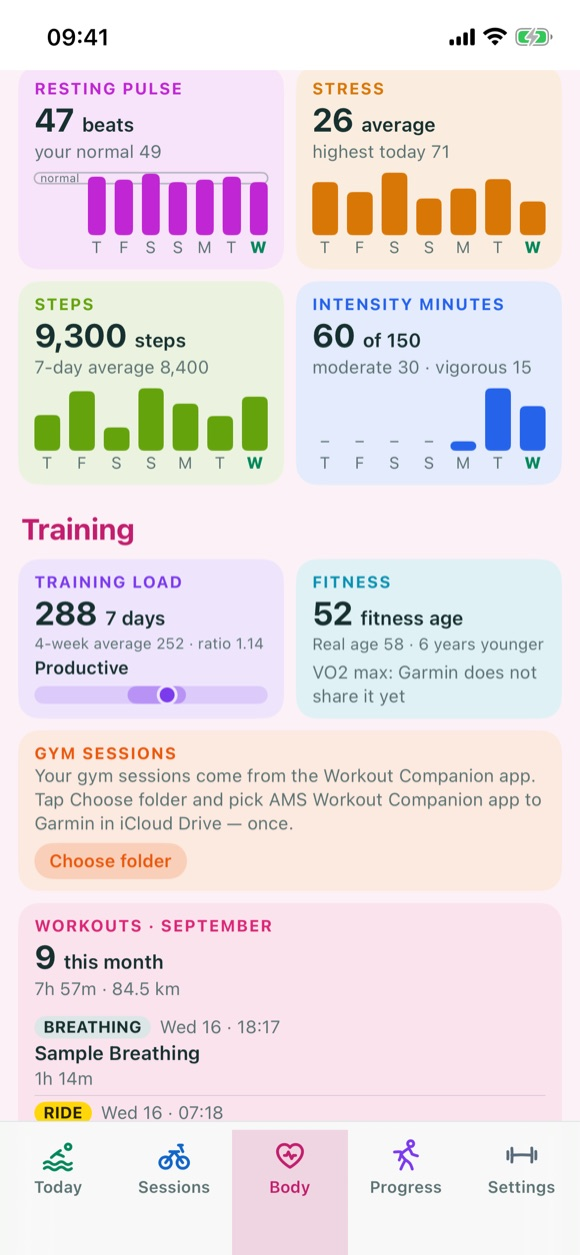
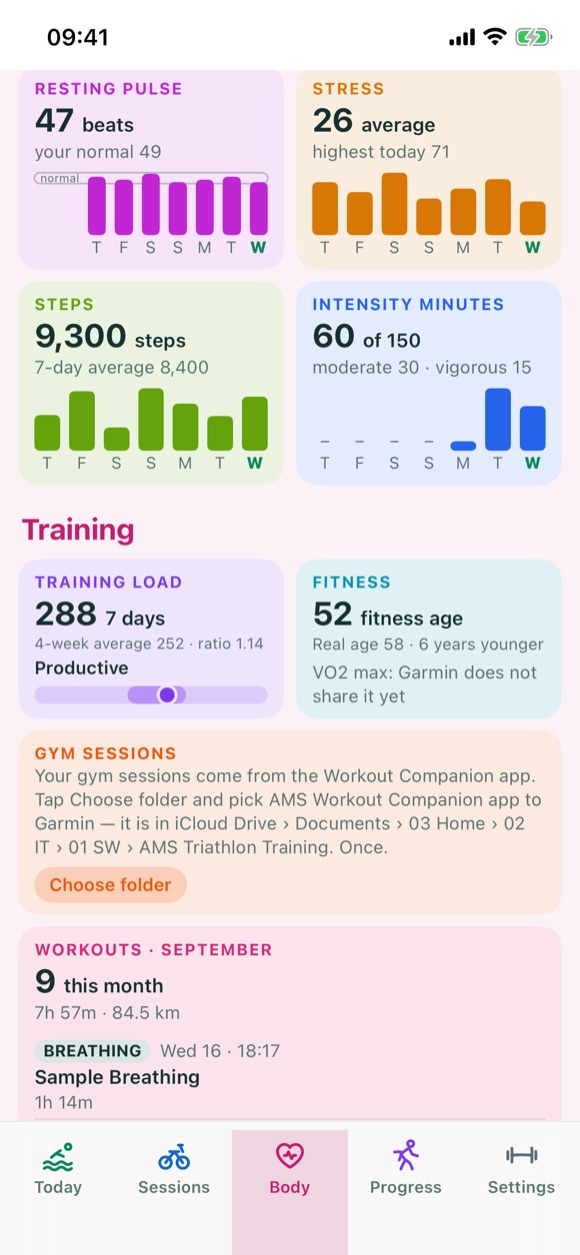
Course: gym folder now in iCloud Drive › Documents › 03 Home › 02 IT › 01 SW › AMS Triathlon Training; 2.13 (89); 3 pictures retaken

Changed region(s): [[0.0621, 0.6526, 0.6828, 0.9012], [0.7138, 0.6526, 0.8379, 0.6837], [0.869, 0.6526, 0.9, 0.6837]]

diff --git a/docs/intro/index.html b/docs/intro/index.html
@@ -2915,7 +2915,7 @@ CHAPTER({
       hint: 'The card shows the gym sessions you log in the Workout Companion app. It has no page of its own; the six latest sit under it as rows, each with a slim bar for its kilograms.',
       robot: [['act', 'bod.gym', '1']], real: 'Body › Gym sessions' },
     { kind: 'look', head: 'Before the gym folder is chosen', shot: 'bod-19-gym-nofolder',
-      text: 'Until you choose the folder, the Gym sessions card is small: a grey line says: “Your gym sessions come from the Workout Companion app. Tap Choose folder and pick AMS Workout Companion app to Garmin in iCloud Drive — once.” Under it a button, <b>Choose folder</b>. Workouts · September stands right under the card.',
+      text: 'Until you choose the folder, the Gym sessions card is small: a grey line says: “Your gym sessions come from the Workout Companion app. Tap Choose folder and pick AMS Workout Companion app to Garmin — it is in iCloud Drive › Documents › 03 Home › 02 IT › 01 SW › AMS Triathlon Training. Once.” Under it a button, <b>Choose folder</b>. Workouts · September stands right under the card.',
       hint: 'The app only reads that folder and writes nothing in it. The choice stays on this device: the iPad and the Mac each need their own.', real: 'Body › Gym sessions' },
     { kind: 'look', head: 'The gym block on a strength session', set: { screen: 'bod.gymblock' }, target: 'bod.gymblk',
       text: 'Open a strength session on a day you trained in the gym and a small <b>GYM</b> block shows that day’s place, length, machines, sets, kilograms and each machine’s best set. Other kinds of session show nothing, and so does a strength day with no gym session.' },
@@ -4191,7 +4191,7 @@ CHAPTER({
       text: 'Today’s Garmin line and the Body page get their numbers from your Garmin watch, through one personal key. Once the key is saved, Settings › Garmin says Connected, shows the key only as dots, and says when it was last read. Read again now asks Garmin at once. The numbers are only shown: they never change your plan.',
       hint: 'The key stays on the device where you pasted it. An iPad or a Mac that should show the numbers needs its own key. The app only asks Garmin for numbers; nothing of your plan, notes or answers is sent to it.', real: 'Settings › Garmin' },
     { kind: 'look', head: 'Gym sessions: choose a folder once', shot: 'gar-07-gym-choose',
-      text: 'With a key saved, the Garmin page has a second part, <b>Gym sessions</b>: “From the Workout Companion app, as on your Garmin Board.” and “In iCloud Drive: AMS Workout Companion app to Garmin”. Press <b>Choose the folder</b> once and pick that folder in your iCloud Drive. Body’s Gym sessions card then fills.',
+      text: 'With a key saved, the Garmin page has a second part, <b>Gym sessions</b>: “From the Workout Companion app, as on your Garmin Board.” and “Where: iCloud Drive › Documents › 03 Home › 02 IT › 01 SW › AMS Triathlon Training › AMS Workout Companion app to Garmin”. Press <b>Choose the folder</b> once and pick that folder; it sits in iCloud Drive › Documents › 03 Home › 02 IT › 01 SW › AMS Triathlon Training. Body’s Gym sessions card then fills.',
       hint: 'The app only reads the folder and writes nothing in it. The choice stays on this device: the iPad and the Mac each choose their own. The Gym sessions card on Body offers the same choice.', real: 'Settings › Garmin › Gym sessions' },
     { kind: 'look', head: 'Once the folder is chosen', shot: 'gar-08-gym-chosen',
       text: 'After the choice the part shows the folder’s name, <b>AMS Workout Companion app to Garmin</b>, and the day of the newest session: Newest session: Mon 14 Sep. A small <b>Change</b> button picks another folder.' },
@@ -4307,7 +4307,7 @@ CHAPTER({
       <span class="k-muted k-small">${S.hom_cloud === 'same' ? 'Last met iCloud 07:12.' : 'Your plan is on its way between your devices.'}</span>
       <button class="k-btn k-main k-full" data-act="hom.sync" data-t="hom.sync"><span>Sync now</span></button>
       <span class="k-cap">Your devices</span>
-      <div class="k-card"><span class="k-small"><b>iPhone · this one</b> · last seen 07:12 · 2.12 (88)</span><span class="k-small"><b>iPad</b> · last seen 07:10 · 2.12 (88)</span></div>
+      <div class="k-card"><span class="k-small"><b>iPhone · this one</b> · last seen 07:12 · 2.13 (89)</span><span class="k-small"><b>iPad</b> · last seen 07:10 · 2.12 (88)</span></div>
       <span class="k-cap">What is shared</span>
       <span class="k-muted k-small">The plan, everything you log and change, and your morning and how-hard answers are the same on your iPhone, iPad and Mac. Apple Health numbers come from your iPhone. The Training calendar and Dropbox stay on your iPhone.</span>`,
     /* The page an iPad or a Mac shows before the plan has arrived (it stands in for Today). */
@@ -4499,6 +4499,9 @@ CHAPTER({
     'set.new': S => `
       ${K.back('Settings', 'set.back')}
       <b class="set-title">What’s new</b>
+      <div class="k-card"><b>2.13 (89)</b><span class="k-muted k-small">26 November 2026</span>
+        <b class="k-small">The gym folder now lives in your AMS Triathlon Training folder</b>
+        <span class="k-small">Body and Settings › Garmin · Changed: the folder AMS Workout Companion app to Garmin no longer sits at the top of iCloud Drive. The card before the choice and Settings › Garmin › Gym sessions now say where it is: iCloud Drive › Documents › 03 Home › 02 IT › 01 SW › AMS Triathlon Training. The button is still Choose the folder.</span></div>
       <div class="k-card"><b>2.12 (88)</b><span class="k-muted k-small">26 November 2026</span>
         <b class="k-small">The gym folder has a new name, and the words around it say the Workout Companion app</b>
         <span class="k-small">Body and Settings › Garmin · Changed: the card before the choice says: Your gym sessions come from the Workout Companion app. Tap Choose folder and pick AMS Workout Companion app to Garmin in iCloud Drive — once. Settings › Garmin › Gym sessions says: From the Workout Companion app, as on your Garmin Board; In iCloud Drive: AMS Workout Companion app to Garmin; and the button Choose the folder. Once chosen, it shows that folder’s name.</span></div>
@@ -4570,7 +4573,7 @@ CHAPTER({
     { kind: 'try', head: 'Garmin, Claude and the rest', text: 'Press the row <b>Claude</b>.', set: { screen: 'set.l2' }, target: 'set.row:claude', until: S => S.set_pick === 'claude',
       ok: 'Optional, and it needs your own key. Its own chapter teaches it. Garmin has one too, and Apple Health follows it.', robot: [['act', 'set.pick', 'claude']] },
     { kind: 'look', head: 'The foot of Settings', shot: 'set-06-foot',
-      text: 'Below Claude: <b>Your two neighbour apps</b>, <b>Reminders</b>, <b>Weather</b>, <b>Calendar</b> and <b>Dropbox</b> (the last two are on the iPhone only). Then <b>This app</b>, with <b>How this works</b> and <b>What’s new</b>; What’s new reads the version under its name, here AMS Triathlon Training 2.12 (88).',
+      text: 'Below Claude: <b>Your two neighbour apps</b>, <b>Reminders</b>, <b>Weather</b>, <b>Calendar</b> and <b>Dropbox</b> (the last two are on the iPhone only). Then <b>This app</b>, with <b>How this works</b> and <b>What’s new</b>; What’s new reads the version under its name, here AMS Triathlon Training 2.13 (89).',
       hint: 'On an iPad and a Mac the word Keys at the foot of the side list shows every key.', real: 'Settings, at the foot' },
     { kind: 'try', head: 'Open How this works', text: 'Press <b>How this works</b>.', set: { screen: 'set.l3' }, target: 'set.row:guide', until: S => S.screen === 'set.guide',
       ok: 'One long page. Each part has a green heading; the last part is Signs in this app.', robot: [['act', 'set.guide']] },
@@ -4580,7 +4583,7 @@ CHAPTER({
       robot: [['act', 'set.sign', 'tick'], ['act', 'set.sign', 'red'], ['act', 'set.sign', 'moon'], ['act', 'set.sign', 'dot'], ['act', 'set.sign', 'blue'], ['act', 'set.sign', 'main']],
       real: 'How this works › Signs in this app' },
     { kind: 'try', head: 'See what is new', text: 'Press <b>What’s new</b>. Every version stands there, newest first.', set: { screen: 'set.l3' }, target: 'set.row:new', until: S => S.screen === 'set.new',
-      ok: 'The entry 2.12 (88), 26 November 2026, says every new, changed and fixed thing, in plain words.', robot: [['act', 'set.new']] },
+      ok: 'The entry 2.13 (89), 26 November 2026, says every new, changed and fixed thing, in plain words.', robot: [['act', 'set.new']] },
     { kind: 'look', head: 'Your favourite sessions', shot: 'set-04-favourites',
       text: 'Settings \u203a Your plan \u203a Favourite sessions. A blue card counts them (here 3 favourites, kept for the New session page and on all your devices). Each row has three lines at the left, the session\u2019s mark, its name, length, zone and sport, and the small buttons <b>Rename</b> and <b>Remove</b>.',
       hint: 'Done is at the top left.', real: 'Settings \u203a Your plan \u203a Favourite sessions' },
@@ -4607,7 +4610,7 @@ function setList(S, id, withHead) {
     return K.nav(r[0], 'set.pick', { arg: key, sub: r[1], t: 'set.row:' + key });
   };
   const extra = id === 'set.l3' ? `<span class="k-cap">This app</span>${K.nav('How this works', 'set.guide', { sub: 'The week strip, logging, syncing and what keeps your plan safe', t: 'set.row:guide' })}
-      ${K.nav('What’s new', 'set.new', { sub: 'AMS Triathlon Training 2.12 (88)', t: 'set.row:new' })}` : '';
+      ${K.nav('What’s new', 'set.new', { sub: 'AMS Triathlon Training 2.13 (89)', t: 'set.row:new' })}` : '';
   return `${withHead ? '<h1 class="k-h1">Settings</h1>' : ''}
     ${picked ? `<div class="k-band k-ok" data-t="set.card">${icon('info')}<span class="k-small"><b>${esc(picked[0])}</b> — ${esc(picked[2])} ${picked[3] ? 'Taught in: ' + esc(picked[3]) + '.' : ''}</span></div>` : ''}
     ${SET_GROUPS[id].map(([g, keys]) => `<span class="k-cap">${esc(g)}</span>${keys.map(row).join('')}`).join('')}${extra}`;
@@ -4648,7 +4651,7 @@ FINALE = {
       items: [
         '<b>Body</b> with your own Garmin numbers: today’s curve, yesterday’s thin line, and a press on a workout.',
         '<b>Body › Training and Health</b> with your own Garmin numbers: set the eight cards beside your Garmin Board — Training load, Fitness, Gym sessions, Workouts this month, Sleep debt, Weight, Energy and Water. The figures should agree; if one does not, tell Claude which.',
-        '<b>Settings › Garmin › Gym sessions</b>: press <b>Choose the folder</b> (AMS Workout Companion app to Garmin) once on the iPhone, and again on the iPad and the Mac (each device keeps its own choice). Then open Body: the Gym sessions card should show your latest session from the Workout Companion app.',
+        '<b>Settings › Garmin › Gym sessions</b>: press <b>Choose the folder</b> (AMS Workout Companion app to Garmin, in iCloud Drive › Documents › 03 Home › 02 IT › 01 SW › AMS Triathlon Training) once on the iPhone, and again on the iPad and the Mac (each device keeps its own choice). Then open Body: the Gym sessions card should show your latest session from the Workout Companion app.',
         'On a <b>strength session’s page</b> on a day you trained in the gym: the small <b>GYM</b> block with that day’s place, length and best sets.',
         'A press on a workout in <b>Workouts this month</b> that is not in your plan: it should open its small plate, and change nothing.',
         'A done session with <b>From your watch</b>: the route, the pulse line and the laps.',

diff --git a/docs/intro/src/chapters/15-set.js b/docs/intro/src/chapters/15-set.js
@@ -83,6 +83,9 @@ CHAPTER({
     'set.new': S => `
       ${K.back('Settings', 'set.back')}
       <b class="set-title">What’s new</b>
+      <div class="k-card"><b>2.13 (89)</b><span class="k-muted k-small">26 November 2026</span>
+        <b class="k-small">The gym folder now lives in your AMS Triathlon Training folder</b>
+        <span class="k-small">Body and Settings › Garmin · Changed: the folder AMS Workout Companion app to Garmin no longer sits at the top of iCloud Drive. The card before the choice and Settings › Garmin › Gym sessions now say where it is: iCloud Drive › Documents › 03 Home › 02 IT › 01 SW › AMS Triathlon Training. The button is still Choose the folder.</span></div>
       <div class="k-card"><b>2.12 (88)</b><span class="k-muted k-small">26 November 2026</span>
         <b class="k-small">The gym folder has a new name, and the words around it say the Workout Companion app</b>
         <span class="k-small">Body and Settings › Garmin · Changed: the card before the choice says: Your gym sessions come from the Workout Companion app. Tap Choose folder and pick AMS Workout Companion app to Garmin in iCloud Drive — once. Settings › Garmin › Gym sessions says: From the Workout Companion app, as on your Garmin Board; In iCloud Drive: AMS Workout Companion app to Garmin; and the button Choose the folder. Once chosen, it shows that folder’s name.</span></div>
@@ -154,7 +157,7 @@ CHAPTER({
     { kind: 'try', head: 'Garmin, Claude and the rest', text: 'Press the row <b>Claude</b>.', set: { screen: 'set.l2' }, target: 'set.row:claude', until: S => S.set_pick === 'claude',
       ok: 'Optional, and it needs your own key. Its own chapter teaches it. Garmin has one too, and Apple Health follows it.', robot: [['act', 'set.pick', 'claude']] },
     { kind: 'look', head: 'The foot of Settings', shot: 'set-06-foot',
-      text: 'Below Claude: <b>Your two neighbour apps</b>, <b>Reminders</b>, <b>Weather</b>, <b>Calendar</b> and <b>Dropbox</b> (the last two are on the iPhone only). Then <b>This app</b>, with <b>How this works</b> and <b>What’s new</b>; What’s new reads the version under its name, here AMS Triathlon Training 2.12 (88).',
+      text: 'Below Claude: <b>Your two neighbour apps</b>, <b>Reminders</b>, <b>Weather</b>, <b>Calendar</b> and <b>Dropbox</b> (the last two are on the iPhone only). Then <b>This app</b>, with <b>How this works</b> and <b>What’s new</b>; What’s new reads the version under its name, here AMS Triathlon Training 2.13 (89).',
       hint: 'On an iPad and a Mac the word Keys at the foot of the side list shows every key.', real: 'Settings, at the foot' },
     { kind: 'try', head: 'Open How this works', text: 'Press <b>How this works</b>.', set: { screen: 'set.l3' }, target: 'set.row:guide', until: S => S.screen === 'set.guide',
       ok: 'One long page. Each part has a green heading; the last part is Signs in this app.', robot: [['act', 'set.guide']] },
@@ -164,7 +167,7 @@ CHAPTER({
       robot: [['act', 'set.sign', 'tick'], ['act', 'set.sign', 'red'], ['act', 'set.sign', 'moon'], ['act', 'set.sign', 'dot'], ['act', 'set.sign', 'blue'], ['act', 'set.sign', 'main']],
       real: 'How this works › Signs in this app' },
     { kind: 'try', head: 'See what is new', text: 'Press <b>What’s new</b>. Every version stands there, newest first.', set: { screen: 'set.l3' }, target: 'set.row:new', until: S => S.screen === 'set.new',
-      ok: 'The entry 2.12 (88), 26 November 2026, says every new, changed and fixed thing, in plain words.', robot: [['act', 'set.new']] },
+      ok: 'The entry 2.13 (89), 26 November 2026, says every new, changed and fixed thing, in plain words.', robot: [['act', 'set.new']] },
     { kind: 'look', head: 'Your favourite sessions', shot: 'set-04-favourites',
       text: 'Settings \u203a Your plan \u203a Favourite sessions. A blue card counts them (here 3 favourites, kept for the New session page and on all your devices). Each row has three lines at the left, the session\u2019s mark, its name, length, zone and sport, and the small buttons <b>Rename</b> and <b>Remove</b>.',
       hint: 'Done is at the top left.', real: 'Settings \u203a Your plan \u203a Favourite sessions' },
@@ -191,7 +194,7 @@ function setList(S, id, withHead) {
     return K.nav(r[0], 'set.pick', { arg: key, sub: r[1], t: 'set.row:' + key });
   };
   const extra = id === 'set.l3' ? `<span class="k-cap">This app</span>${K.nav('How this works', 'set.guide', { sub: 'The week strip, logging, syncing and what keeps your plan safe', t: 'set.row:guide' })}
-      ${K.nav('What’s new', 'set.new', { sub: 'AMS Triathlon Training 2.12 (88)', t: 'set.row:new' })}` : '';
+      ${K.nav('What’s new', 'set.new', { sub: 'AMS Triathlon Training 2.13 (89)', t: 'set.row:new' })}` : '';
   return `${withHead ? '<h1 class="k-h1">Settings</h1>' : ''}
     ${picked ? `<div class="k-band k-ok" data-t="set.card">${icon('info')}<span class="k-small"><b>${esc(picked[0])}</b> — ${esc(picked[2])} ${picked[3] ? 'Taught in: ' + esc(picked[3]) + '.' : ''}</span></div>` : ''}
     ${SET_GROUPS[id].map(([g, keys]) => `<span class="k-cap">${esc(g)}</span>${keys.map(row).join('')}`).join('')}${extra}`;

diff --git a/docs/intro/src/chapters/13-gar.js b/docs/intro/src/chapters/13-gar.js
@@ -141,7 +141,7 @@ CHAPTER({
       text: 'Today’s Garmin line and the Body page get their numbers from your Garmin watch, through one personal key. Once the key is saved, Settings › Garmin says Connected, shows the key only as dots, and says when it was last read. Read again now asks Garmin at once. The numbers are only shown: they never change your plan.',
       hint: 'The key stays on the device where you pasted it. An iPad or a Mac that should show the numbers needs its own key. The app only asks Garmin for numbers; nothing of your plan, notes or answers is sent to it.', real: 'Settings › Garmin' },
     { kind: 'look', head: 'Gym sessions: choose a folder once', shot: 'gar-07-gym-choose',
-      text: 'With a key saved, the Garmin page has a second part, <b>Gym sessions</b>: “From the Workout Companion app, as on your Garmin Board.” and “In iCloud Drive: AMS Workout Companion app to Garmin”. Press <b>Choose the folder</b> once and pick that folder in your iCloud Drive. Body’s Gym sessions card then fills.',
+      text: 'With a key saved, the Garmin page has a second part, <b>Gym sessions</b>: “From the Workout Companion app, as on your Garmin Board.” and “Where: iCloud Drive › Documents › 03 Home › 02 IT › 01 SW › AMS Triathlon Training › AMS Workout Companion app to Garmin”. Press <b>Choose the folder</b> once and pick that folder; it sits in iCloud Drive › Documents › 03 Home › 02 IT › 01 SW › AMS Triathlon Training. Body’s Gym sessions card then fills.',
       hint: 'The app only reads the folder and writes nothing in it. The choice stays on this device: the iPad and the Mac each choose their own. The Gym sessions card on Body offers the same choice.', real: 'Settings › Garmin › Gym sessions' },
     { kind: 'look', head: 'Once the folder is chosen', shot: 'gar-08-gym-chosen',
       text: 'After the choice the part shows the folder’s name, <b>AMS Workout Companion app to Garmin</b>, and the day of the newest session: Newest session: Mon 14 Sep. A small <b>Change</b> button picks another folder.' },

diff --git a/docs/intro/src/chapters/07-bod.js b/docs/intro/src/chapters/07-bod.js
@@ -360,7 +360,7 @@ CHAPTER({
       hint: 'The card shows the gym sessions you log in the Workout Companion app. It has no page of its own; the six latest sit under it as rows, each with a slim bar for its kilograms.',
       robot: [['act', 'bod.gym', '1']], real: 'Body › Gym sessions' },
     { kind: 'look', head: 'Before the gym folder is chosen', shot: 'bod-19-gym-nofolder',
-      text: 'Until you choose the folder, the Gym sessions card is small: a grey line says: “Your gym sessions come from the Workout Companion app. Tap Choose folder and pick AMS Workout Companion app to Garmin in iCloud Drive — once.” Under it a button, <b>Choose folder</b>. Workouts · September stands right under the card.',
+      text: 'Until you choose the folder, the Gym sessions card is small: a grey line says: “Your gym sessions come from the Workout Companion app. Tap Choose folder and pick AMS Workout Companion app to Garmin — it is in iCloud Drive › Documents › 03 Home › 02 IT › 01 SW › AMS Triathlon Training. Once.” Under it a button, <b>Choose folder</b>. Workouts · September stands right under the card.',
       hint: 'The app only reads that folder and writes nothing in it. The choice stays on this device: the iPad and the Mac each need their own.', real: 'Body › Gym sessions' },
     { kind: 'look', head: 'The gym block on a strength session', set: { screen: 'bod.gymblock' }, target: 'bod.gymblk',
       text: 'Open a strength session on a day you trained in the gym and a small <b>GYM</b> block shows that day’s place, length, machines, sets, kilograms and each machine’s best set. Other kinds of session show nothing, and so does a strength day with no gym session.' },

diff --git a/docs/intro/src/finale.js b/docs/intro/src/finale.js
@@ -32,7 +32,7 @@ FINALE = {
       items: [
         '<b>Body</b> with your own Garmin numbers: today’s curve, yesterday’s thin line, and a press on a workout.',
         '<b>Body › Training and Health</b> with your own Garmin numbers: set the eight cards beside your Garmin Board — Training load, Fitness, Gym sessions, Workouts this month, Sleep debt, Weight, Energy and Water. The figures should agree; if one does not, tell Claude which.',
-        '<b>Settings › Garmin › Gym sessions</b>: press <b>Choose the folder</b> (AMS Workout Companion app to Garmin) once on the iPhone, and again on the iPad and the Mac (each device keeps its own choice). Then open Body: the Gym sessions card should show your latest session from the Workout Companion app.',
+        '<b>Settings › Garmin › Gym sessions</b>: press <b>Choose the folder</b> (AMS Workout Companion app to Garmin, in iCloud Drive › Documents › 03 Home › 02 IT › 01 SW › AMS Triathlon Training) once on the iPhone, and again on the iPad and the Mac (each device keeps its own choice). Then open Body: the Gym sessions card should show your latest session from the Workout Companion app.',
         'On a <b>strength session’s page</b> on a day you trained in the gym: the small <b>GYM</b> block with that day’s place, length and best sets.',
         'A press on a workout in <b>Workouts this month</b> that is not in your plan: it should open its small plate, and change nothing.',
         'A done session with <b>From your watch</b>: the route, the pulse line and the laps.',

diff --git a/docs/intro/src/chapters/14-hom.js b/docs/intro/src/chapters/14-hom.js
@@ -53,7 +53,7 @@ CHAPTER({
       <span class="k-muted k-small">${S.hom_cloud === 'same' ? 'Last met iCloud 07:12.' : 'Your plan is on its way between your devices.'}</span>
       <button class="k-btn k-main k-full" data-act="hom.sync" data-t="hom.sync"><span>Sync now</span></button>
       <span class="k-cap">Your devices</span>
-      <div class="k-card"><span class="k-small"><b>iPhone · this one</b> · last seen 07:12 · 2.12 (88)</span><span class="k-small"><b>iPad</b> · last seen 07:10 · 2.12 (88)</span></div>
+      <div class="k-card"><span class="k-small"><b>iPhone · this one</b> · last seen 07:12 · 2.13 (89)</span><span class="k-small"><b>iPad</b> · last seen 07:10 · 2.12 (88)</span></div>
       <span class="k-cap">What is shared</span>
       <span class="k-muted k-small">The plan, everything you log and change, and your morning and how-hard answers are the same on your iPhone, iPad and Mac. Apple Health numbers come from your iPhone. The Training calendar and Dropbox stay on your iPhone.</span>`,
     /* The page an iPad or a Mac shows before the plan has arrived (it stands in for Today). */

diff --git a/docs/intro/build.py b/docs/intro/build.py
@@ -1,7 +1,7 @@
 #!/usr/bin/env python3
 """Puts the course together: src/ (page, kit, engine, one file pair per chapter) -> index.html. The page shows the real pictures
 from shots/ beside it (published together with it). Run:  python3 docs/intro/build.py
-Based on AMS Triathlon Training 2.12 (88). Update the course in the release that changes a taught screen."""
+Based on AMS Triathlon Training 2.13 (89). Update the course in the release that changes a taught screen."""
 import pathlib
 
 root = pathlib.Path(__file__).resolve().parent
